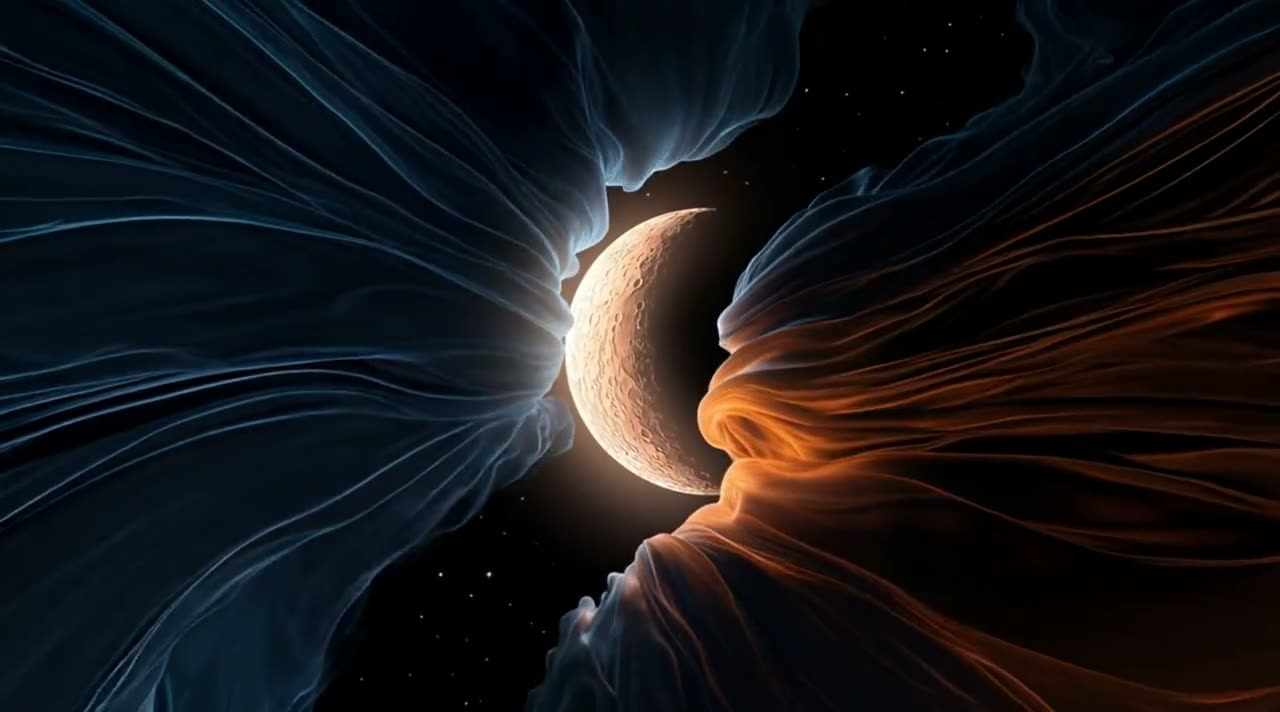
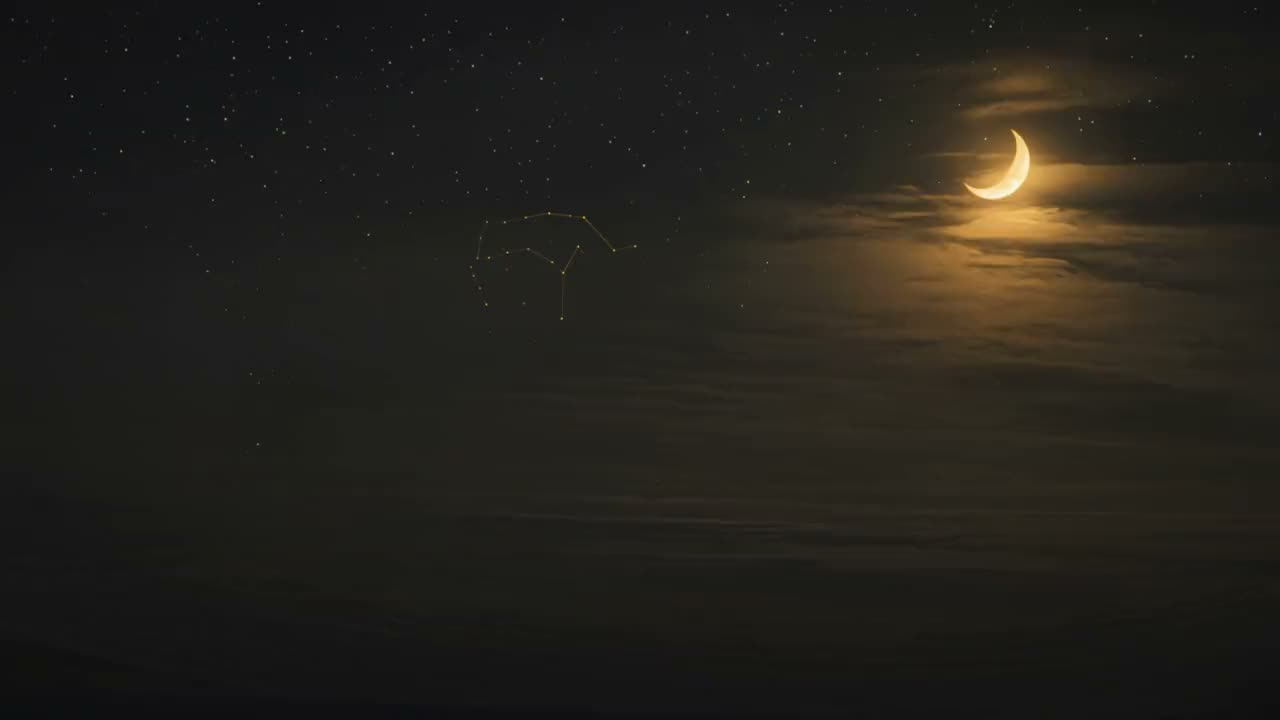
Cinematic Kling hero + shareable charts, SEO, mobile form fix
- Hero: swap in a Kling 3.0 cinematic night-sky video (crescent moon +
  gold constellation echoing the logo), re-encoded to a 320KB 720p loop
  with matching poster. Pairs with the existing drift/entrance/starfield
  motion for a filmic landing.
- Shareable chart links: calculate() now encodes birth inputs into the
  URL; opening a shared link auto-prefills the form and casts the same
  reading. New "Share this chart" button in the results footer.
- SEO: add meta description, canonical, and JSON-LD WebApplication schema
  to the landing page.
- Mobile: primary birth form goes single-column so long option labels
  ("1 - January", "戌时 Xu ...") no longer truncate.
- Dev: launch.json autoPort so the preview server survives port 3000
  contention.

diff --git a/index.html b/index.html
@@ -4,6 +4,8 @@
 <meta charset="UTF-8">
 <meta name="viewport" content="width=device-width, initial-scale=1.0">
 <title>八字排盘 | BaZi Calculator</title>
+<meta name="description" content="Free BaZi (Four Pillars of Destiny) calculator. Enter your birth date and time to cast your chart — Day Master, Five Elements balance, Ten-Year Luck Pillars, and a personalised daily reading. Classical Zi Ping method, 命星指引.">
+<link rel="canonical" href="https://mingpan.live/">
 <link rel="icon" href="/favicon.svg" type="image/svg+xml">
 <link rel="icon" href="/favicon-32x32.png" sizes="32x32" type="image/png">
 <link rel="icon" href="/favicon-16x16.png" sizes="16x16" type="image/png">
@@ -21,6 +23,19 @@
 <meta name="twitter:title" content="八字排盘 · BaZi Four Pillars of Destiny">
 <meta name="twitter:description" content="Calculate your BaZi chart and get a personalised daily reading. Purpose-Star Astrology · 命星指引.">
 <meta name="twitter:image" content="https://mingpan.live/og-image.png">
+<script type="application/ld+json">
+{
+  "@context": "https://schema.org",
+  "@type": "WebApplication",
+  "name": "八字排盘 · BaZi Four Pillars Calculator",
+  "url": "https://mingpan.live/",
+  "applicationCategory": "LifestyleApplication",
+  "operatingSystem": "Any",
+  "description": "Free BaZi (Four Pillars of Destiny) calculator. Cast your chart from your birth date and time — Day Master, Five Elements balance, Ten-Year Luck Pillars, and a personalised daily reading. Classical Zi Ping method.",
+  "offers": { "@type": "Offer", "price": "0", "priceCurrency": "SGD" },
+  "inLanguage": ["en", "zh"]
+}
+</script>
 <link href="https://fonts.googleapis.com/css2?family=Noto+Serif+SC:wght@400;600;700;900&family=Cormorant+Garamond:ital,wght@0,300;0,400;0,600;0,700;1,300;1,400&family=Inter:wght@300;400;500;600;700&display=swap" rel="stylesheet">
 <style>
 :root {
@@ -791,6 +806,9 @@ footer a { color: var(--accent); text-decoration: none; }
   .pillar { min-width: 0; padding: 14px 6px; }
   .dm-summary { grid-template-columns: 1fr; }
   .form-grid { grid-template-columns: repeat(2, 1fr); }
+  /* Primary birth form: single column on mobile so long option labels
+     (e.g. "1 - January", "戌时 Xu (19:00-20:59)") never truncate. */
+  #input-section .form-grid { grid-template-columns: 1fr; }
   .balance-grid { grid-template-columns: repeat(5, 1fr); }
   .current-year-grid { grid-template-columns: 1fr; }
   .year-pillar-display { border-right: none; border-bottom: 1px solid rgba(255,255,255,0.05); padding-bottom: 16px; }
@@ -3680,7 +3698,8 @@ BZ.render = function(chart) {
 
   // ---- Consult a Master ----
   html += `<div class="card fade-in">
-    <div class="copy-section">
+    <div class="copy-section" style="display:flex;flex-direction:column;gap:12px;align-items:center">
+      <button class="btn" style="width:auto" onclick="BZ.copyShareLink(this)">Share this chart</button>
       <a class="btn consult-btn" href="https://wa.me/6589422200" target="_blank" rel="noopener">Consult a Master</a>
     </div>
   </div>`;
@@ -3952,7 +3971,58 @@ BZ.calculate = function() {
       return;
     }
     BZ.render(chart);
+    BZ.updateShareURL(year, month, day, hourBranch, gender);
   });
+};
+
+// ─── Shareable chart links ──────────────────────────────────
+// Encode the current birth inputs into the URL so a chart can be shared;
+// a visitor opening that link is auto-cast into the same reading.
+BZ.updateShareURL = function(year, month, day, hourBranch, gender) {
+  try {
+    const p = new URLSearchParams({
+      y: year, m: month, d: day, h: hourBranch,
+      g: gender === 'female' ? 'f' : 'm'
+    });
+    history.replaceState(null, '', '?' + p.toString());
+  } catch (e) { /* non-fatal */ }
+};
+
+BZ.copyShareLink = function(btn) {
+  const url = window.location.href;
+  const done = () => {
+    if (!btn) return;
+    const orig = btn.textContent;
+    btn.textContent = 'Link copied ✓';
+    setTimeout(() => { btn.textContent = orig; }, 1800);
+  };
+  if (navigator.clipboard && navigator.clipboard.writeText) {
+    navigator.clipboard.writeText(url).then(done).catch(() => { prompt('Copy this link:', url); });
+  } else {
+    prompt('Copy this link:', url);
+  }
+};
+
+// Read birth inputs from the URL (if present), prefill the form, and cast.
+BZ.applyShareParams = function() {
+  const q = new URLSearchParams(window.location.search);
+  const y = parseInt(q.get('y')), m = parseInt(q.get('m')), d = parseInt(q.get('d'));
+  if (!y || !m || !d) return false;
+  const h = q.has('h') ? parseInt(q.get('h')) : -1;
+  const g = q.get('g') === 'f' ? 'female' : 'male';
+  const selYear = document.getElementById('sel-year');
+  const selMonth = document.getElementById('sel-month');
+  if (y >= 1920 && y <= new Date().getFullYear() + 10) selYear.value = y;
+  if (m >= 1 && m <= 12) selMonth.value = m;
+  BZ.updateDays();
+  const selDay = document.getElementById('sel-day');
+  if (d >= 1 && d <= selDay.options.length) selDay.value = d;
+  const selHour = document.getElementById('sel-hour');
+  if (!isNaN(h)) selHour.value = h;
+  const genderInput = document.querySelector('input[name="gender"][value="' + g + '"]');
+  if (genderInput) { genderInput.checked = true; genderInput.dispatchEvent(new Event('change')); }
+  BZ.calculate();
+  return true;
 };
 
 // Animated "calculating" overlay. Cycles status lines, lights the five
@@ -4080,6 +4150,7 @@ document.addEventListener('DOMContentLoaded', () => {
   BZ.init();
   BZ.initVideoPerf();
   if (window.location.search.includes('debug')) BZ.verify();
+  else BZ.applyShareParams();
 });
 // ============================================================
 // Auth: Session, Login, Registration